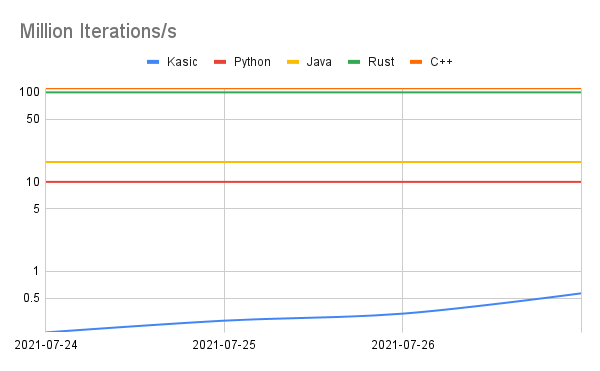
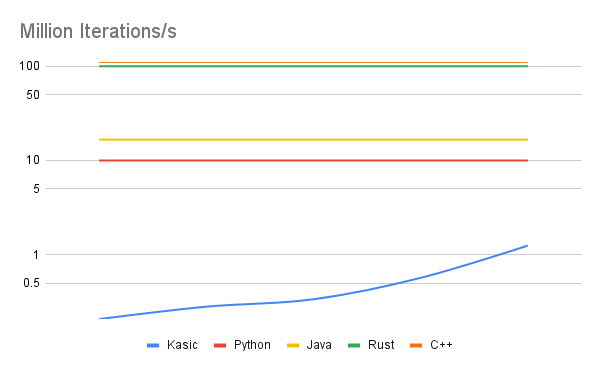
Docs: updated speed comparisions

diff --git a/README.md b/README.md
@@ -53,6 +53,8 @@ See [here](https://github.com/jackdelahunt/Kasic/tree/main/kasic/Examples/Speed)
 | 2021-07-25     | 3560      |
 | 2021-07-26     | 2970      |
 | 2021-07-27     | 1760      |
+| 2021-07-28     | 800       |
+
 
 
 ### In comparision
